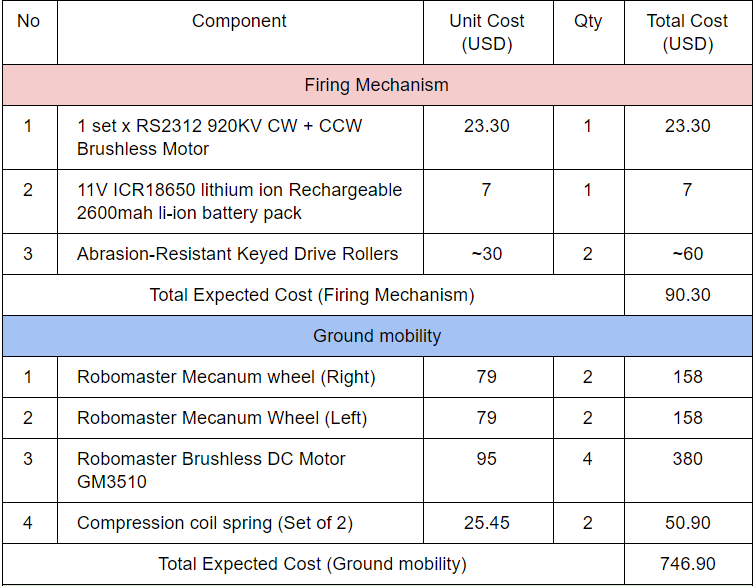
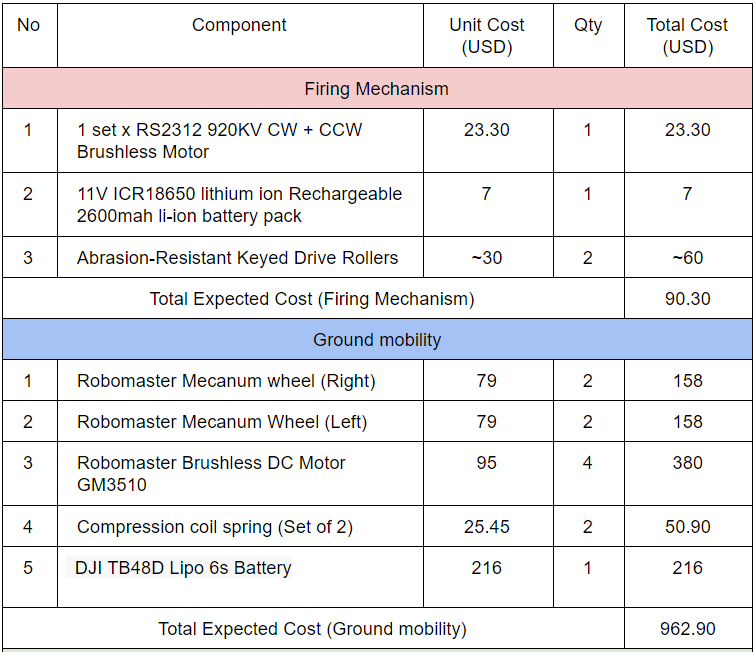
added more drawing and justification (#60)
* added

* added

* changed

Changed region(s): [[0.0, 0.0, 1.0, 1.0], [0.7311, 0.3379, 0.7921, 0.43], [0.8225, 0.3379, 0.853, 0.43]]

diff --git a/docs/nav-teams/HERO.md b/docs/nav-teams/HERO.md
@@ -39,6 +39,9 @@ I am a year 3 Computer Engineering who have an interest in ML with supervised le
 
 ## Robot Design Considerations
 
+### Key considerations in Standard Robot Design
+The Standard Robot used in Robomaster is a general-purpose shooter robot that is used primarily for harrassing/taking down enemy robots using its average firepower and for gaining tower bonuses (that activate upon shooting down certain special targets on the field). Although it is noticeably less powerful than the Hero Robot (in terms of damage output), the sheer number of standard robots allowed on the field makes it an incredibly key factor in swinging gameplay through strategic divisive work. Hence, one of the main consideration in the design of this robot is in its accuracy. This is achieved by stabilizing the barrel and isolating its movement from the main chassis, as well as several toggle-able mechanisms for auto-targeting. A secondary concern is in its survivability (both physical robustness and in-game). The former will be achieved by design, eg. selecting parts that have adequately higher tolerances than is needed, while the latter will be realized through static strategies like spinning the chassis while the human operator is stationary and aiming at some target (See: Proposed Optical and Stability Mechanisms).
+
 ### Standard Robot Specifications:
 
 #### Overall Specifications: 
@@ -54,18 +57,38 @@ I am a year 3 Computer Engineering who have an interest in ML with supervised le
 - Only 17mm standard projectiles
 - RoboMaster Referee System: 4 Small Armor Modules, 1 Large Armor Module, Speed Monitor Module (17 mm projectile), Video Transmission Module (VTM), RFID Interaction Module, Positioning Module, Main Control Module, Power Supply Management Module, Light Strip Module
 
-
 ![Referee system](./assets/HERO-pic-2.png)
+
+### General Design and Fabrication Method
+
+![model](./assets/HERO-pic-7.png)
+<cite>Get compress file on https://bbs.robomaster.com/forum</cite>
+
+For the bulk of material used in the robot, such as the main chassis, stabilisation system and the firing mechanism, aluminium would be used primarily due to its lightweight nature. Even though steel is stronger than aluminium, the (almost 2.5-3 times in weight) weight difference would outweigh the benefits for this robot due to the constraints such as weight limit, battery capacity, opportunity cost for essential components. Fabrication of the aluminium to fit the specifications of our robot would also be cheaper as compared to steel. Fabrication of the aluminium frames can be carried out within school workshops but can be outsourced as well for more complex dimensions (Firing mechanism).
+
+Carbon fibre can also be considered as an alternative to aluminium but the cost would be a major factor. Carbon fibre is lighter, stronger and more rigid than aluminium, thus is way more desirable due to its greater resistance to deformation and impact. However, this would only be a secondary consideration due to its higher price-point.
+
+Small components used for construction such as screws, nuts, bolts, washers can be bought directly online or should be available for use as provided by school workshops. For complex parts which do not experience high stresses, 3D printing can be used to manufacture such components to save cost.
+
+Assembly of the robot would be done in-house once all the individual components are ready. There should be no need for welding in the assembly process as parts would either be produced whole or bolted/screwed together.
 
 #### Projectile Specifications
 
 ![Projectile](./assets/HERO-pic-3.png)
 
-### Key considerations in robot design
+It can be seen that the projectiles used in the Robomaster competition are relatively small and light. Physical shielding is hence not as important - however, small and easily removable cases can be 3D-printed and housed onto key electronic components (eg. CPU boards) to prevent dislodging of cables/modules.
+
 
 #### Firing mechanism
+The main firing mechanism substructure will be directly mounted onto the gimbal structure for strategic purposes (See: later section on Proposed Optical and Stability Mechanisms).
 
 ![Projectile](./assets/HERO-pic-4.gif)
+<cite>https://mp.weixin.qq.com/s/KitwSi5VT1RvdKmbK_s86Q</cite>
+
+![Firing](./assets/HERO-pic-12.png)
+
+![Firing](./assets/HERO-pic-14.gif)
+<cite>https://mp.weixin.qq.com/s/KitwSi5VT1RvdKmbK_s86Q</cite>
 
 Components:
 - Motor for the firing wheel mechanism
@@ -78,54 +101,35 @@ Components:
     - Weight 48 ± 2g
     - Outside Diameter 27.7 mm
     - Body Length 26 mm
+    - **This motor was chosen as it provides enough torque to drive the projectiles, while being relatively light to acommodate gimbal loading restrictions.**
+
 - <a href="https://www.alibaba.com/product-detail/11V-ICR18650-lithium-ion-Rechargeable-2600mah_62069335985.html?spm=a2700.7724857.normalList.1.61ff5aa9d0KiuJ&s=p">11V ICR18650 lithium ion Rechargeable 2600mah li-ion battery pack</a>                    
     - Nominal Voltage: 11V(10120 rpm no load )
     - Capacity: 2600mAh(11.14 mins at max current )
     - Cycle life: >500 Times
+    - **This battery was chosen as it is light and compact, but yet is nevertheless sufficient to power the wheel motors (entire Standard Robot is just limited to 20kg overall).**
 - Friction wheels for firing mechanism
+
+    These wheels are the main drivers of the launching mechanism.
     - Abrasion-Resistant Keyed Drive Rollers             
         - 38.1mm
         - Wear resistant & for high torque application
         - Radius to be large to increase contact time but not too large to compromise on weight and size of firing mechanism 
     ![equation](./assets/HERO-pic-5.png)
 - Projectile storage and feeder        
-    - Multi-angled base with a channel of decreasing width up to the friction wheel propulsion system
-    - Consider adding an agitator within the storage compartment to ensure smooth feeding
+    - Multi-angled base with a channel of decreasing width up to the friction wheel propulsion system. The angled base ensures that the ammunitions rolls smoothly from the hopper container into the launching mechanism via gravity.
+    - An agitator can also be integrated into the storage compartment to ensure smoother feeding
         - Rotating arm   
 - Barrel  
-    - Aluminium profile for sturdiness and with gaps to minimise air resistance in barre
-     ![equation](./assets/HERO-pic-11.png)   
-- Gimbal
-   - Commercial-bought 2-axis stabilizing gimbal (~40-50USD, but usually made only for smartphones) (3-axis variants are more industrial-grade, but in range of few hundreds) with PID modulation on step servos and integrated controller board that can interface using GPIO with computational device of choice
-   - <a href="https://tinyurl.com/y5fad6os">Tarot 3-axis (GPIO-compatible,, 149$)</a> 
-   - <a href="https://tinyurl.com/y23fkopc">Feiyu 3-axis (GPIO-compatible, 349$)</a> 
-   - Alternatively, a gimbal can be fabricated from scratch to alleviate budget concerns (but not recommended due to manpower/time constraints). Below are the parts needed:
-        - 2 x 5208 Brushless motors
-        - 1 x 2200mAh 3s Lipo Battery
-        - Linear Hall sensors
-        - Custom angle brackets and joint covers
-        - Suitable microcontroller boards
+    - Aluminium profile for sturdiness and with gaps to minimise air resistance in barrel
+     ![barrel diagram](./assets/HERO-pic-11.png)   
             
-         
-    
 - Things to test out:  
     - Motor
         - Velocity of projectile
     - Friction wheels for firing mechanism
         - Stiffness of roller
         - Roller distance from one another
-               
-    
-    
-
-
-#### Sighting
-
-
-- Optical Laser Rangefinders
-    - <a href="https://www.robotshop.com/community/blog/show/lidar-light-amp-laser-based-distance-sensors">Lidar 1</a>
-    - <a href="https://www.digikey.com/products/en/sensors-transducers/optical-sensors-distance-measuring/542?FV=1f140000%2Cffe0021e&quantity=0&ColumnSort=-42&page=1&pageSize=25">Lidar 2</a>
-    - <a href="https://www.jenoptik.com/products/metrology/laser-distance-sensors">Lidar 3</a>
 
 
 #### Ground mobility
@@ -138,8 +142,10 @@ Components:
         - Weight: 590g 
         - 6 mounting holes with a diameter of 5.2mm 
         - Cost: 499RMB
+        - Easy to control by changing the directions of four body wheels and reduce unnecessary time to turn the wheel
 
 - Suspension
+![suspension](./assets/HERO-pic-13.png)
     - <a href="https://www.monotaro.sg/g/00141241/">Compression coil spring</a>
         - Spring constant: 3.089N/mm
         - Allowable load: 104.93N
@@ -152,8 +158,9 @@ Components:
 
 #### Chassis built
 
-- Aluminium profile (Rectangular frame for stability)
-    
+![chassis](./assets/HERO-pic-12.jpg)
+
+- The main material for the chassis will be that of aluminium for its sturdy yet lightweight properties. Fabrication method was detailed in an ealier section.
     - 500mm x 500mm (Maximise base with allowance for wheel protrusion)
 
 
@@ -173,7 +180,7 @@ The battery has long run times with 6 cells and high power. This intelligent bat
     
     - Model: Robomaster M3508 Brushless DC Gear Motor with C620 Brushless DC Motor Speed Controller (ESC)
     
-        - Total power: 220W
+        - Total power: 220W for each motor or 880W for 4 motors. 
         - Rated Voltage: 24V
         - Stall torque: 5 N.m
         - Max rotational speed with a continuous torque of 3N·m：469rpm (2.5 m/s with 10cm-diameter wheel)
@@ -183,61 +190,100 @@ The battery has long run times with 6 cells and high power. This intelligent bat
     
     ![equation2](./assets/HERO-pic-6.png)
 
+  For a 20kg robot with 10cm-diameter will be able to move on a dry surface with frictional constant of 0.7 (other drag forces are negligible), a minimum torque of: 
+  
+  - Frictional force/wheel radius = (9.8x(20/4)x0.7)x0.05 = 1.715 Nm (below the maximum torque the motor can handle)
+  
+  The max continuous torque the M3508 provides is 3N.m, which enables the maximum acceleration up to: 
+  
+  - [(max torque-minimum torque needed)/wheel's radius x robot weight]x 4= 5.14 m^2/s
 
-M3508 is chosen as the main motor because its compactness (98.4mmx42mm), powerfulness that allows acceleration shortly and high safety with multiple embedded sensor such as temperature sensing with automatic alarm. Besides, the control is flexible with both PWM and CAN bus supporters.
+  According to the first graph, max rotational speed with a continuous torque of 3N·m：469rpm (2.5 m/s with 10cm-diameter wheel), which consumes roughly a power of  200W for each motor
+
+  M3508 is chosen as the main motor because its compactness (98.4mmx42mm), power that allows acceleration shortly and high safety with multiple embedded sensor such as temperature sensing with automatic alarm. Besides, the control is flexible with both PWM and CAN bus supporters.
+
+- Powering System Requirements:
+     
+  The power management module check three main power components of the robot which are of the chassis, the gimbal and the launching mechanism. We have to ensure that all these power components combined are below 200Wh.
+  The gimbal is mainly controlled by 2 x 5208 Brushless motors with max power up to 200W each
+  The launching mechanism includes 2x RS2312 920KV CW/CCW Brushless Motor with max power up to 220W each
+  The chassis power consumption is mainly divided into the four wheel motors and the CPU, which can reach up to 1kW
+  The total power robot consumes may reach up to 2kW. Under maximum power consumption, the robot is able to operate around 6 minutes before reaching the maximum power capacity requirement. Actually,the robot is operated well below the maximum power because, for example, the robot cannot run at full speed while shooting and the gimbal just requires a smal amount of power to keep stabilazing. We will ensure the robot system consume the average power which alows it to run for the whole duration of the match without reaching the maximum power capacity.
+
 
 
 #### Proposed Optical and Stability Mechanisms
 One especially important robot specification lies in the stability of its barrel and the corresponding vision field that enables the human controller to take aim. From the observations of successful teams in past DJI competitions, standard robots made use of the following techniques for effective deployment of its robot in both offensive and defensive aspects:
 
-- When stationary, constantly spinning the robot chassis while keeping barrel and camera fixed to prevent enemy robots from targeting its armour modules easily
-- Programmatic auto-correction/aiming onto important on-screen targets like enemy armour modules/power boosts/towers (can be toggled on/off quickly for outlier cases)
+- When stationary, constantly spinning the robot chassis while keeping barrel and camera fixed to prevent enemy robots from targeting its armour modules easily. The main goal is to serve as a counter-mechanism to prevent enemy robots from auto-targeting the armour modules easily through vision algorithms while stationary. Moreover, a moving target would be harder to aim even for a human controller, especially considering that there might be significant latency between the opponent's gimbal movement and their mouse control due to hardware limitations.
+- Programmatic auto-correction/aiming onto important on-screen targets like enemy armour modules/power boosts/towers. The human controller should be able to toggle this function on/off quickly for outlier cases or if the enemy robot is employing the spinning strategy as described above.
 - Keeping camera and barrel fixed when robot is going down slopes/bumps (able to be turned off/on easily)
 
 Most of these points imply the need to maintain two separate coordinate systems: one for the barrel/camera (the barrel assembly coordinate system) and the other for the chassis & wheels (chassis coordinate system) within the standard robot. The key goal is to keep the orientation of the barrel assembly coordinate system (relative to the global coordinate system) invariant to any change in orientation of the chassis coordinate system (relative to the global coordinate system). Note that the robot intentionally does not correct for translational change - it is more natural (game-like) for the human controller. Furthermore, the above proposed auto-targeting system can also take care of translational changes within the robot if needed.
 
-The main stabilization substructure to be used would be a stabilizing gimbal (both 2-axis and 3-axis would be suitable). The camera can be either bought integrated with the gimbal, or as a third-party mount. Both methods are feasible, but the former might allow for customizability based on the camera function needed.
+The main stabilization substructure to be used would be a stabilizing gimbal (both 2-axis and 3-axis would be suitable). The camera can be either bought integrated with the gimbal, or as a third-party mount. Both methods are feasible, but the latter might allow for better customizability based on the camera function needed, with the trade-off of time costs needed to integrate the systems together.
 
 
-- Gimbal Stabilization
+- **Gimbal mechanism**
     
     - The isolation of the barrel assembly coordinate system from the chassis can be done in one of two ways, both of which require the gimbal to be motorized:
-    Open-loop correction of the barrel assembly system for every detected orientation change in the chassis coordinate system. This would remove the need for sensors on the limited space available on the gimbal structure, but is not recommended due to long-term error shift and “jerkiness” in error correction.
-    Closed-loop gimbal correction using linear hall-effect sensors and PID microcontroller board (most likely software-based PID instead of hardware-based). This would be the preferred way as the hall-effect sensors can take direct measurement of the barrel assembly eulerian orientation relative to the global coordinate system, with smooth error correction.
-    
-    - Since real-time stabilization is extremely crucial for effective human control, the latter method would be used. To aim the barrel and camera in an FPS-style manner with stabilization, the human controller would essentially control the set-point of the gimbal PID relative to the global coordinate system. The movement of the mouse would be internally translated into changes in the PID setpoints.
-    - Proposed motorized gimbal mounts/costs can be found in earlier sections of this proposal. The parts needed for a custom DIY implementation of a gimbal substructure can also be found within the same section.
+      - Open-loop correction of the barrel assembly system for every detected orientation change in the chassis coordinate system. This would remove the need for sensors on the limited space available on the gimbal structure, but is not recommended due to long-term error shift and “jerkiness” in error correction.
+      - Closed-loop gimbal correction using linear hall-effect sensors and PID microcontroller board (most likely software-based PID instead of hardware-based). This would be the preferred way as the hall-effect sensors can take direct measurement of the barrel assembly eulerian orientation relative to the global coordinate system, with smooth error correction.
+  
+      Since real-time stabilization is extremely crucial for effective human control, the latter method would be used. To aim the barrel and camera in an FPV manner with stabilization, the human controller would essentially control the set-point of the gimbal PID relative to the global coordinate system. The movement of the mouse would be internally translated into changes in the PID setpoints.
+
+ - **Proposed components/parts for main gimbal substructure**
+     - Commercial-bought 2-axis stabilizing gimbal (~40-50USD, but usually made only for smartphones) (3-axis variants are more industrial-grade, but in range of few hundreds) with PID modulation on step servos and integrated controller board that can interface using GPIO with computational device of choice
+       - <a href="https://tinyurl.com/y5fad6os">Tarot 3-axis (BUS-compatible, 149$)</a> 
+       - <a href="https://tinyurl.com/y23fkopc">Feiyu 3-axis (BUS-compatible, 349$)</a> 
+     - Alternatively, a gimbal can be fabricated from scratch (but may not be recommended due to manpower/time/budget constraints). Below are the parts needed:
+
+        - 2 x DJI GM6020 Brushless motors (136$ x 2)
+        - 1 x 2200mAh 3s Lipo Battery ($20)
+        - Linear Hall sensors / 9-axis IMU unit (~15-20$)
+        - Custom angle brackets,  and joint covers 
+        - Suitable microcontroller boards
+        - Miscelleanous fabrication costs
+        - 
+        Since the timeline of the competition is extremely tight, the overall recommendation of this proposal is to consider the pre-made Tarot 3-axis gimbal or the Feiyu 3-axis gimbal. The Feiyu gimbal has higher weight tolerances, but with a much higher price-point.
 
 
 
-- Camera
+- **Camera**
  
     - There are three possible choices for camera types depending on the budget constraints and computational setup (next section): 
     
-    - Basic mono-camera vision: Any hobbyist/drone FPV compact camera with sufficient resolution (>1080p) for a computer monitor. While basic computer vision techniques (thresholding, filter etc) can be performed to determine the onscreen position of targets, the camera would need to be combined with a laser-range finder (specs and possible laser-range finder models listed in earlier sections) to accurately determine target distance.
-        - Possible models: <a href="https://tinyurl.com/y4ttctxu">Caddx</a> , <a href="https://tinyurl.com/y597ze4c">Runcam </a>
-        - Advantages: requires the low computational power (Sensor fusion for distance estimation likely to be achievable in real-time on PI3)
-        - Disadvantages: requires sensor fusion with range-finders for target distance estimation, which needs accurate mounting and prior calibration. 
+      1. Basic mono-camera vision: Any hobbyist/drone FPV compact camera with sufficient resolution (>1080p) for a computer monitor. While basic computer vision techniques (thresholding, filter etc) can be performed to determine the onscreen position of targets, the camera would need to be combined with a laser-range finder (specs and possible laser-range finder models listed in earlier sections) to accurately determine target distance.
+          - Possible models: <a href="https://tinyurl.com/y4ttctxu">Caddx</a> , <a href="https://tinyurl.com/y597ze4c">Runcam </a> (~50SGD + LiDAR costs below)
+          - Advantages: requires the low computational power (Sensor fusion for distance estimation likely to be achievable in real-time on PI3)
+          - Disadvantages: requires sensor fusion with range-finders for target distance estimation, which needs accurate mounting and prior calibration. 
  
-    - Stereo-camera vision: Mount two cameras side by side. Target distance can be triangulated using gray-scale feature mapping in OpenCV or open-source stereo libraries and estimated without the need for a range-finder. 
-        - Advantages:  No need for range-finders, able to perform distance estimation
-        - Disadvantages: Significant computational overhead (may not run real-time on Pi3 CPU Model), Requires two cameras to be bought, accurately mounted, and properly calibrated (taking up precious gimbal mounting space), and not fully accurate in estimating distance of outlier features.
+      2. Stereo-camera vision: Mount two cameras side by side. Target distance can be triangulated using gray-scale feature mapping in OpenCV or open-source stereo libraries and estimated without the need for a range-finder. 
+          - Possible models: same as above, but with two sets of cameras (~2 x 50 SGD).
+          - Advantages:  No need for range-finders (LIDARs), able to perform distance estimation
+          - Disadvantages: Significant computational overhead (may not run real-time on Pi3 CPU Model), Requires two cameras to be bought, accurately mounted, and properly calibrated (taking up precious gimbal mounting space), and not fully accurate in estimating distance of outlier features.
 
-    - Native depth-sensing cameras: a camera with inbuilt RGB colour vision and depth-sensing/point-cloud capabilities. It essentially fuses both range-finder and camera capabilities, and can be extended into fast 3D mapping (most likely not needed for Standard robots, but may be needed for Sentry) using its generated point-clouds.
-        - Possible models: <a href = "https://tinyurl.com/yyzsc253">Intel D435I</a>, <a href="https://tinyurl.com/y5mns9ex">Intel D415</a>
-        - Advantages: Depth/distance is estimated natively across the entire image within the camera module itself without further software processing.
-        - Disadvantages: Extremely costly (factor of 7x to 10x more than regular FPV cameras: 298$ for D435/ 240$ for D415), requires installation of dedicated Intel RealSense SDK/libraries to read depth images from camera.
+      3. Native depth-sensing cameras: a camera with inbuilt RGB colour vision and depth-sensing/point-cloud capabilities. It essentially fuses both range-finder and camera capabilities, and can be extended into fast 3D mapping (most likely not needed for Standard robots, but may be needed for Sentry) using its generated point-clouds.
+          - Possible models: <a href = "https://tinyurl.com/yyzsc253">Intel D435I</a>, <a href="https://tinyurl.com/y5mns9ex">Intel D415</a> (~240SGD)
+          - Advantages: Depth/distance is estimated natively across the entire image within the camera module itself without further software processing.
+          - Disadvantages: Extremely costly (factor of 7x to 10x more than regular FPV cameras: 298$ for D435/ 240$ for D415), requires installation of dedicated Intel RealSense SDK/libraries to read depth images from camera.
     
-    The overall camera recommendation for a Standard Robot would be to use a mono-camera vision coupled with a single laser range-finder. This is to keep budget costs down while providing a proper system for mimicking a FPS-shooter style mechanic (laser-range finder only needs to compute distance to the center targeting point of the camera image). If budget permits, the use of the third option (depth-sensing camera) would be optimal as it shifts the computational burden and responsibility of distance estimation to the camera module. The second option (stereo-vision) would most likely not be feasible due to the computational complexity needed for feature-processing both images each frame as well as the fact that the distance estimations from the technique may not be necessarily accurate and usable in real-time.
+    The overall camera recommendation for a Standard Robot would be to use a mono-camera vision coupled with a single laser range-finder. This is to keep budget costs down while providing a proper system for mimicking a FPS-shooter style mechanic (laser-range finder only needs to compute distance to the center targeting point of the camera image). If budget permits, the use of the third option (depth-sensing camera) would be optimal as it shifts the computational burden and responsibility of distance estimation to the camera module. The second option (stereo-vision) would most likely not be feasible due to the computational complexity needed for feature-processing both images each frame as well as the fact that the distance estimations from the technique may not be necessarily centimetre-accurate (a weakness of stereo-estimation), and would not necessarily run in real-time on a Jetson Nano (the main choice of CPU/GPU in the later section).
     
 
+- **Additional considerations: Optical Laser Rangefinders**
+    Since the main recommendation of this proposal is to use a typical FPV monocular camera, the robot would require a laser rangefinder to accurately determine target distance for setting up the algorithms used in the fire control system. 
+    - <a href="https://tinyurl.com/y59y7mvq">TF Mini Micro LiDAR Module, 63$</a>
+    - <a href="https://tinyurl.com/yytskqn6">LiDAR-lite 3 Laser Rangefinder, 178$</a>
+
+  The first LiDAR module in the list is preferred due to its budget costs and adequate specs (+/- 4cm accuracy, 12m range). However, the second option can also be considered if a higher accuracy is needed (+/- 2.5cm, up to 40m). Alternatively, the monocular camera + LiDAR setup can be replaced entirely by the third camera option above.
 
 
 #### On-board Computation & Software Features
-The on-board CPU/GPU for the standard robot would handle all incoming/outgoing feed from the human controller to the robot, as well as to perform the necessary computations needed for gimbal stabilization, projectile launch, adjusting PID setpoints for gimbal control, and auto-targeting/aiming. In addition, neural networks may also be used as either a complementary or alternative option to traditional computer vision techniques if the on-board CPU/GPU is fast enough (eg. trained RNNs like YOLO to detect armour modules).
+The on-board CPU/GPU for the standard robot would handle all incoming/outgoing feed from the human controller to the robot, as well as to perform the necessary computations needed for gimbal stabilization, projectile launch, adjusting PID setpoints for gimbal control, and auto-targeting/aiming. In addition, neural networks may also be used as either a complementary or alternative option to traditional computer vision techniques if the on-board CPU/GPU is fast enough (eg. lightweight RNNs like YOLO to detect armour modules).
 
 
-There are four main choices in this area, all of which are based primarily off the ARM architecture as is common among embedded systems. The primary OS for use would be linux (final robot system should aim to use a headless setup with direct boot into terminal to save computational power on unnecessary GUI renders).
+There are four main choices in this area, all of which are based primarily off the ARM architecture as is common among embedded systems. The primary OS for use would be Linux (final robot system should aim to use a headless setup with direct boot into terminal to save computational power on unnecessary GUI renders).
 
 
 | CPU/GPU Model |  Description | 
@@ -276,30 +322,22 @@ There are four main choices in this area, all of which are based primarily off t
 | |91mm by 61mm by 34mm|
 
 
-For optimal budget and wattage, the Jetson Nano is thus one of the best choices for mounting onto the Standard Robot. Since the standard robot is primarily user-controlled, only elementary computer vision techniques will be used for auto-targeting/correction along with gimbal stabilization/control, which the Jetson Nano and Raspberry Pi 4 are both sufficient for. The on-board 128-core GPU of the Jetson Nano may even allow it to run shallow or medium-size neural networks if necessary for object recognition (as a complementary “deep” approach to recognize armour modules alongside traditional computer vision).
-Additionally, the dimensions of the TX2 and Manifold may pose a challenge when installing it onto a standard robot. Although the dimensions of the TX2 may be reduced by directly using the CPU/GPU module with third-party board carriers (listed above), it is extremely price prohibitive and thus not recommended. 
+For optimal budget and wattage, the Jetson Nano is thus one of the best choices for mounting onto the Standard Robot. Since the standard robot is primarily user-controlled, only elementary computer vision techniques will be used for auto-targeting/correction along with gimbal stabilization/control, which the Jetson Nano and Raspberry Pi 4 are both sufficient for. The on-board 128-core GPU of the Jetson Nano may even allow it to run shallow or medium-size neural networks if necessary for object recognition (as a complementary “deep” approach to recognize armour modules alongside traditional computer vision). This is however strictly a nice-to-have feature as the tight timeline of the competition may not permit extensive and foolproof training.
+
+Additionally, the dimensions of the TX2 and Manifold may pose a challenge when installing it onto a standard robot. Although the dimensions of the TX2 may be reduced by directly using the CPU/GPU module with third-party board carriers (listed above), it is extremely price prohibitive and thus not recommended.
+
 This proposal hence recommends the use of the Jetson Nano or the Raspberry Pi 4 Model B as the primary onboard computer (in order of preference).
 
-#### real time operating system for the robot 
+
+#### Real time operating system for the robot 
 We probably going to be using the  [ROBORTS](https://github.com/RoboMaster/RoboRTS). As we have not get the robot, it is very hard to mention about the firmware and system.
 
-
-
-
-### General Design and Fabrication Method
-
-![model](./assets/HERO-pic-7.png)
-
-For the bulk of material used in the robot, such as the main chassis, stabilisation system and the firing mechanism, aluminium would be used primarily due to its lightweight nature. Even though steel is stronger than aluminium, the (almost 2.5-3 times in weight) weight difference would outweigh the benefits for this robot due to the constraints such as weight limit, battery capacity, opportunity cost for essential components. Fabrication of the aluminium to fit the specifications of our robot would also be cheaper as compared to steel. Fabrication of the aluminium frames can be carried out within school workshops but can be outsourced as well for more complex dimensions (Firing mechanism).
-
-Carbon fibre can also be considered as an alternative to aluminium but the cost would be a major factor. Carbon fibre is lighter, stronger and more rigid than aluminium, thus is way more desirable due to its greater resistance to deformation and impact.
-
-Small components used for construction such as screws, nuts, bolts, washers can be bought directly online or should be available for use as provided by school workshops. For complex parts which do not experience high stresses, 3D printing can be used to manufacture such components to save cost.
-
-Assembly of the robot would be done in-house once all the individual components are ready. There should be no need for welding in the assembly process as parts would either be produced whole or bolted/screwed together.
+This system is designed for robomaster. Hence, it will be a very good starting point for us to work on.
 
 ### Proposed Budget
 ![Budget1](./assets/HERO-pic-8.png)
 ![Budget2](./assets/HERO-pic-9.png)
 ![Budget3](./assets/HERO-pic-10.png)
+
+[comment]: <> (COMMENT GOES HERE)
 
